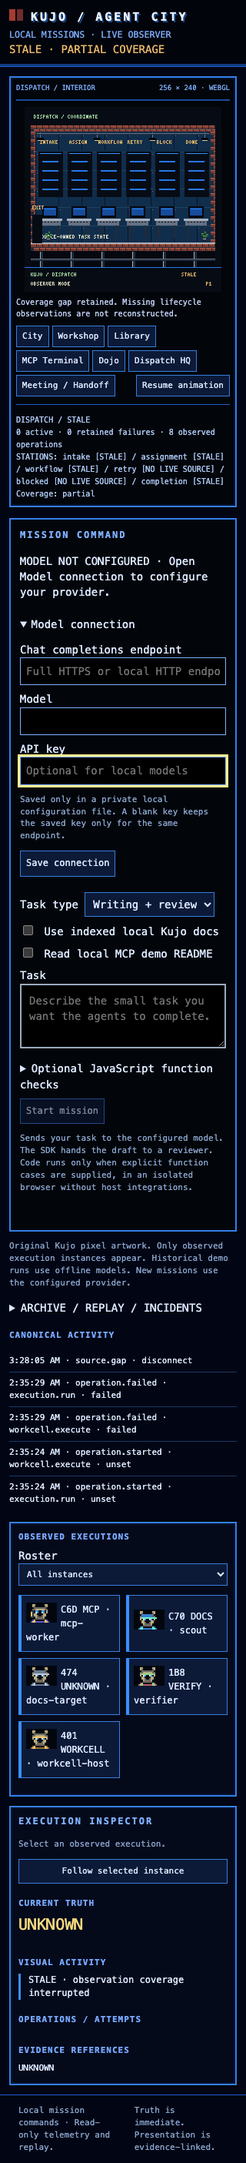
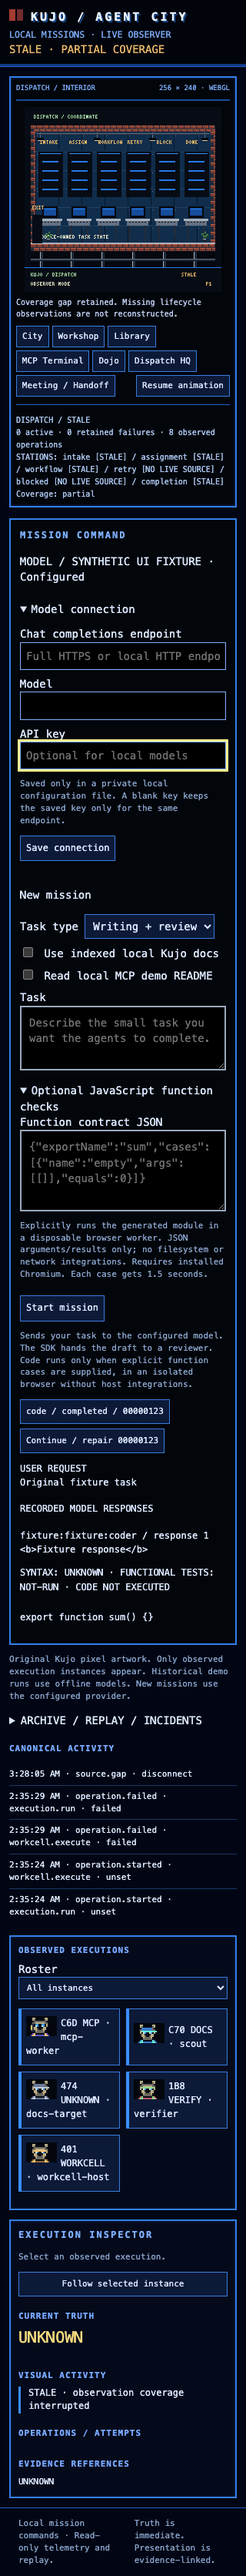
Continue and inspect actual mission requests from history

diff --git a/apps/web/missions.ts b/apps/web/missions.ts
@@ -8,6 +8,7 @@ export function mountMissions(host: HTMLElement) {
     <label>API key <input name="apiKey" type="password" autocomplete="off" placeholder="Optional for local models"></label>
     <p class="muted">Saved only in a private local configuration file. A blank key keeps the saved key only for the same endpoint.</p>
     <button type="submit">Save connection</button></form></details>
+    <p id="continuation-status" role="status">New mission</p><button id="clear-continuation" type="button" hidden>Cancel follow-up</button>
     <form id="mission-form"><label>Task type <select name="kind"><option value="writing">Writing + review</option><option value="code">Code + review</option></select></label>
     <label><input type="checkbox" name="useLocalDocs"> Use indexed local Kujo docs</label>
     <label><input type="checkbox" name="useMcpDocs"> Read local MCP demo README</label>
@@ -28,6 +29,22 @@ export function mountMissions(host: HTMLElement) {
     historyKey = "",
     replay = false,
     configLoaded = false;
+  let parent: { id: string; kind: string } | null = null;
+  const continuation = panel.querySelector<HTMLElement>(
+    "#continuation-status",
+  )!;
+  const clearContinuation = panel.querySelector<HTMLButtonElement>(
+    "#clear-continuation",
+  )!;
+  const kindField = form.elements.namedItem("kind") as HTMLSelectElement;
+  function clearParent() {
+    parent = null;
+    kindField.disabled = false;
+    clearContinuation.hidden = true;
+    continuation.textContent = "New mission";
+    form.reset();
+  }
+  clearContinuation.onclick = clearParent;
   async function refresh() {
     try {
       const response = await fetch("/control/status");
@@ -36,7 +53,7 @@ export function mountMissions(host: HTMLElement) {
       token = data.token;
       if (!pending)
         status.textContent = data.configured
-          ? `MODEL / ${data.model}${data.busy ? " · Mission running" : " · Configured"}`
+          ? `MODEL / ${data.model}${data.jobs.some((j: any) => j.status === "unknown") ? " · Recovery pending / UNKNOWN" : data.busy ? " · Mission service busy" : " · Configured"}`
           : "MODEL NOT CONFIGURED · Open Model connection to configure your provider.";
       submit.disabled =
         replay ||
@@ -63,16 +80,27 @@ export function mountMissions(host: HTMLElement) {
         history.replaceChildren();
         for (const job of data.jobs) {
           const button = document.createElement("button");
-          button.textContent = `${job.kind} / ${job.status} / ${job.id.slice(-8)}`;
+          button.textContent = `${job.kind} / ${job.status} / ${job.id.slice(-8)}${job.parentMissionId ? " · follows " + job.parentMissionId.slice(-8) : ""}`;
 
           button.onclick = async () => {
             try {
+              let requestText = "USER REQUEST UNAVAILABLE";
+              if (["completed", "failed"].includes(job.status)) {
+                const request = await fetch(
+                  "/control/mission/" + encodeURIComponent(job.id),
+                );
+                if (request.ok)
+                  requestText =
+                    "USER REQUEST\n" + (await request.json()).prompt;
+              }
               const response = await fetch(
                 "/control/exchanges/" + encodeURIComponent(job.id),
               );
               if (!response.ok) throw Error();
               const exchanges = await response.json();
               panel.querySelector("#mission-exchanges")!.textContent =
+                requestText +
+                "\n\n" +
                 (exchanges.recordingComplete
                   ? "RECORDED MODEL RESPONSES"
                   : "PARTIAL / UNKNOWN RESPONSE COVERAGE") +
@@ -113,8 +141,60 @@ export function mountMissions(host: HTMLElement) {
             }
           };
           history.append(button);
+          if (["completed", "failed"].includes(job.status)) {
+            const followup = document.createElement("button");
+            followup.dataset.continue = job.id;
+            followup.textContent = `Continue / repair ${job.id.slice(-8)}`;
+            followup.onclick = async () => {
+              if (replay || pending) return;
+              pending = true;
+              submit.disabled = true;
+              try {
+                const response = await fetch(
+                  "/control/mission/" + encodeURIComponent(job.id),
+                );
+                const details = await response.json();
+                if (!response.ok)
+                  throw Error(details.error || "Recorded context unavailable");
+                if (replay) return;
+                clearParent();
+                parent = { id: job.id, kind: job.kind };
+                kindField.value = job.kind;
+                kindField.disabled = true;
+                clearContinuation.hidden = false;
+                continuation.textContent = `Follow-up to ${job.id}. Prior task, output and check results will be included. This starts a new execution and retains the old attempt.`;
+                if (details.functionContract) {
+                  const field = form.elements.namedItem(
+                    "functionContract",
+                  ) as HTMLTextAreaElement;
+                  field.value = JSON.stringify(
+                    details.functionContract,
+                    null,
+                    2,
+                  );
+                  field.closest("details")!.open = true;
+                }
+                (
+                  form.elements.namedItem("prompt") as HTMLTextAreaElement
+                ).focus();
+              } catch (error) {
+                status.textContent =
+                  error instanceof Error
+                    ? error.message
+                    : "Recorded context unavailable";
+              } finally {
+                pending = false;
+              }
+            };
+            history.append(followup);
+          }
         }
       }
+      history
+        .querySelectorAll<HTMLButtonElement>("[data-continue]")
+        .forEach((button) => {
+          button.disabled = replay || pending || data.busy;
+        });
     } catch {
       if (!pending)
         status.textContent =
@@ -147,17 +227,19 @@ export function mountMissions(host: HTMLElement) {
           "X-City-Command-Token": token,
         },
         body: JSON.stringify({
-          kind: fields.get("kind"),
+          kind: parent?.kind || fields.get("kind"),
           prompt: fields.get("prompt"),
           useLocalDocs: fields.has("useLocalDocs"),
           useMcpDocs: fields.has("useMcpDocs"),
           ...(contract ? { functionContract } : {}),
+          ...(parent ? { parentMissionId: parent.id } : {}),
         }),
       });
       const result = await response.json();
       status.textContent = response.ok
         ? `Mission accepted: ${result.id}`
         : result.error;
+      if (response.ok) clearParent();
     } catch {
       status.textContent =
         "Submission response unavailable. Check mission history before retrying.";

diff --git a/scripts/mission-browser.ts b/scripts/mission-browser.ts
@@ -84,6 +84,106 @@ try {
       fullPage: true,
     });
   }
+  // Explicit UI fixtures: no model or source operation is executed in this section.
+  const fixtureId = "mission-00000000-0000-0000-0000-000000000123";
+  const fixtureChecks = {
+    exportName: "sum",
+    cases: [{ name: "empty", args: [[]], equals: 0 }],
+  };
+  const fixtureJob = { id: fixtureId, kind: "code", status: "completed" };
+  await page.route("**/control/status", (r) =>
+    r.fulfill({
+      json: {
+        configured: true,
+        model: "SYNTHETIC UI FIXTURE",
+        endpoint: "",
+        token: "fixture-only",
+        storageHealthy: true,
+        busy: false,
+        jobs: [fixtureJob],
+      },
+    }),
+  );
+  await page.route("**/control/mission/" + fixtureId, (r) =>
+    r.fulfill({
+      json: {
+        ...fixtureJob,
+        prompt: "Original fixture task",
+        functionContract: fixtureChecks,
+      },
+    }),
+  );
+  await page.route("**/control/exchanges/" + fixtureId, (r) =>
+    r.fulfill({
+      json: {
+        records: [
+          {
+            producer: "fixture",
+            run: "fixture",
+            agent: "coder",
+            requestOrdinal: 1,
+            content: "<b>Fixture response</b>",
+          },
+        ],
+        recordingComplete: true,
+      },
+    }),
+  );
+  await page.route("**/control/artifact/" + fixtureId, (r) =>
+    r.fulfill({
+      json: {
+        kind: "code",
+        content: "export function sum() {}",
+        codeExecuted: false,
+      },
+    }),
+  );
+  await page.locator("#mission-jobs button:not([data-continue])").click();
+  await page.waitForFunction(() =>
+    document
+      .querySelector("#mission-exchanges")
+      ?.textContent?.includes("USER REQUEST\nOriginal fixture task"),
+  );
+  assert.equal(await page.locator("#mission-exchanges b").count(), 0);
+  await page.locator(`[data-continue="${fixtureId}"]`).click();
+  await page.waitForFunction(
+    (id) =>
+      document.querySelector("#continuation-status")?.textContent?.includes(id),
+    fixtureId,
+  );
+  assert(await page.getByLabel("Task type").isDisabled());
+  assert.deepEqual(
+    JSON.parse(await page.getByLabel("Function contract JSON").inputValue()),
+    fixtureChecks,
+  );
+  assert.equal(
+    await page.getByLabel("Read local MCP demo README").isChecked(),
+    false,
+  );
+  await page
+    .getByLabel("Task", { exact: true })
+    .fill("Repair the fixture output");
+  let posted: any;
+  await page.route("**/control/missions", async (r) => {
+    posted = r.request().postDataJSON();
+    await r.fulfill({ status: 202, json: { id: "fixture-new-execution" } });
+  });
+  await page
+    .getByRole("button", { name: "Start mission", exact: true })
+    .click();
+  await page.waitForFunction(
+    () =>
+      document.querySelector("#continuation-status")?.textContent ===
+      "New mission",
+  );
+  assert.equal(posted.parentMissionId, fixtureId);
+  assert.equal(posted.kind, "code");
+  assert.deepEqual(posted.functionContract, fixtureChecks);
+  assert(await page.getByLabel("Task type").isEnabled());
+  await page.screenshot({
+    path: resolve(out, "continuation-ui-fixture.png"),
+    fullPage: true,
+  });
   await page.getByText("Model connection", { exact: true }).click();
   await page.getByLabel("Chat completions endpoint").focus();
   await page.keyboard.press("Tab");
@@ -128,6 +228,9 @@ try {
         keyboardSetup: true,
         mobile320NoOverflow: true,
         domOnlyTaskUI: true,
+        continuationFormAndParentLink:
+          "PASS / synthetic UI fixture; real runtime proof recorded separately",
+        recordedUserRequestAndEscapedResponse: true,
         screenshots:
           "Current rendering; retained source truth may be STALE. No new live AI proof claimed.",
       },

diff --git a/TRY-AGENT-CITY.md b/TRY-AGENT-CITY.md
@@ -65,6 +65,23 @@ with no host filesystem/network integrations. Without cases, code receives a syn
 check only. Runtime completion and check results are separate; failed attempts
 remain in history. This does not execute an arbitrary repository or full application.
 
+## Continue or repair an existing result
+
+In mission history, choose **Continue / repair** beside a completed or failed run.
+Enter the change you want, then press **Start mission**. The previous task, latest
+completed output (if available), and recorded check results are included privately
+in the new model request. The original task remains available through subsequent
+revisions, without recursively copying the entire conversation into every turn.
+
+Existing function cases are loaded into the visible check form; review or edit
+them before submitting. Previous RAG/MCP options are cleared, so another retrieval
+requires selecting it again. **Cancel follow-up** returns to a blank new mission.
+
+Each follow-up creates new writer/coder and reviewer execution instances. History
+shows its parent run and retains the old attempt. This is continued work with
+recorded context, not a claim that a completed worker remained alive. Unknown or
+unfinished source work must resolve before a follow-up can start.
+
 ## What to expect
 
 City overview is the default. Follow tracks one execution through evidence-backed
